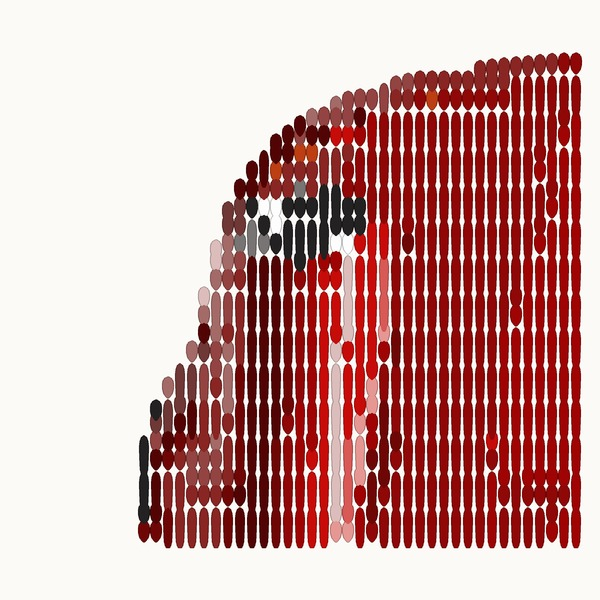
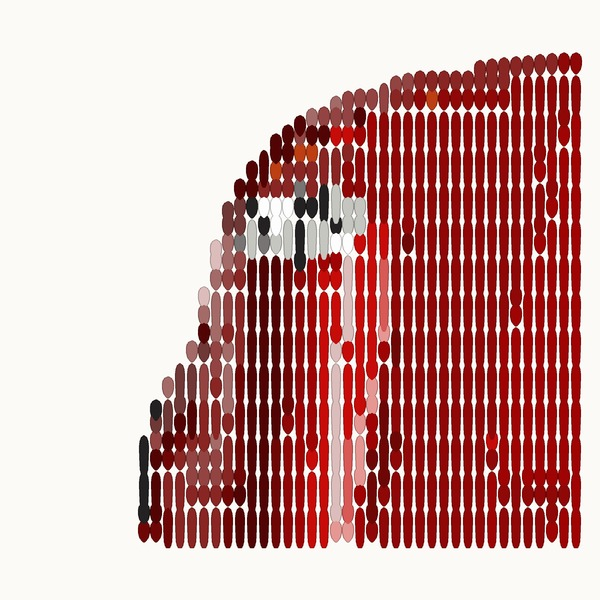
The headlight v.2: his 13 jars a line each, columns 4 mm; a drop's profile clamped
The owner, 2026-11-23, the night: "make v.2 of the headlight … not changing the
colours … we do not need so many shades for the test"; "no, the other way, closer!".
headlight-nib-20-v2: the jars as he set them by 🔄, a line each a layer, columns
4 mm apart. His brush's edits of v.1 and the 4 mm porsche kept. A rounding hair past
a drop's end drew a 38 mm line on a card's picture: the profile clamped. Tested.

Changed region(s): [[0.39, 0.3, 0.63, 0.45]]

diff --git a/app/src/goghplan.js b/app/src/goghplan.js
@@ -37,7 +37,9 @@ import { seqOf, FORMG } from './formgplan.js';
 // to set at all. Let them be preset"): block 6 alone at its place, seeds as stamps (`stamp`, no lift beyond), its `preset` put on the sliders when chosen
 // headlight-nib-20, the headlight for the spatula nib (the owner, 2026-11-23, the night, the stamps a victory: "shall we make a new picture for the headlight
 // test?"; Kuzya's "an enlarged headlight with a bit of the wing on 20 × 20"): for-LAB's crop in 1 and ½, columns 5 mm, every dab a stamp, two layers, preset
-export const GOGH_LIB = ['headlight-nib-20', 'press-stamps-20', 'bear-led-30-3', 'bear-led-30-4', 'porsche-led-20-4', 'porsche-led-20-3', 'porsche-led-20-2', 'press-short-20', 'press-paints-20', 'press-lengths-20', 'orange-bear-20', 'orange-bear'];   // the library: a name here, its json and jpg in app/gogh/; this Mac's own pictures (gogh/local.json, gitignored) in front of it
+// headlight-nib-20-v2 (the owner, 2026-11-23, the night: "make v.2 of the headlight … not changing the colours … we do not need so many shades for the test"; "no,
+// the other way, closer!"): his jars as he set them by 🔄, a line each, 13 jars; columns 4 mm apart
+export const GOGH_LIB = ['headlight-nib-20-v2', 'headlight-nib-20', 'press-stamps-20', 'bear-led-30-3', 'bear-led-30-4', 'porsche-led-20-4', 'porsche-led-20-3', 'porsche-led-20-2', 'press-short-20', 'press-paints-20', 'press-lengths-20', 'orange-bear-20', 'orange-bear'];   // the library: a name here, its json and jpg in app/gogh/; this Mac's own pictures (gogh/local.json, gitignored) in front of it
 // mm, est.: aim, min, max — a dab's length (the owner: "drops of 2 cm"; IMG_3377's measure 13 … 17 mm off an 8 mm mark), the shortest a column's stretch is
 // cut into, the longest; crumb: a stretch of the picture shorter than this left bare; len: what a mm off `aim` costs, squared, in CIELAB ΔE² (a dab's
 // colour against the picture's, summed a mm); stagger: what a dab's end costs `near` mm from one in the column to its left, so the dabs lie as bricks,
@@ -119,7 +121,8 @@ export function dropOf(x, a, b, o = {}) {
   const k = Math.min(1, Math.max(0, -run / 3)), base = o.wide ?? DROP.wide;                  // 0 at RUN 12 and over, 1 at RUN 6: the pill to the seed
   const pill = Math.max(1, (s + ELBOW_J3.early - dropTopOf(o.top)) - (e - ELBOW_J3.late - dropTipOf(o.tip) - 2 * run));
   const top = s + ELBOW_J3.early - dropTopOf(o.top), P = pill + (SEED.len + 2 * Math.min(0, run + 3) - (isSeed(a, b, o) && Number.isFinite(o.seedJ3) ? ELBOW_J3.early - o.seedJ3 : 0) - pill) * k, half = (base + (SEED.wide * base / DROP.wide - base) * k) / 2;   // RUN 4: the seed 2 mm shorter (est.)
-  const at = (pr, f) => { const i = Math.max(1, pr.findIndex(q => q[0] >= f)), [f0, w0] = pr[i - 1], [f1, w1] = pr[i]; return w0 + (w1 - w0) * (f1 > f0 ? (f - f0) / (f1 - f0) : 0); };
+  const at = (pr, f) => { f = Math.min(1, Math.max(0, f)); const i = Math.max(1, pr.findIndex(q => q[0] >= f)),   // f clamped: a hair past 1 by rounding drew a 38 mm wide drop (2026-11-23)
+    [f0, w0] = pr[i - 1], [f1, w1] = pr[i]; return w0 + (w1 - w0) * (f1 > f0 ? (f - f0) / (f1 - f0) : 0); };
   const h = d => half * ((1 - k) * at(DROP.profile, d / P) + k * at(SEED.profile, d / P));
   const n = Math.max(8, Math.ceil(P / 0.25)), ds = [...new Set([...Array.from({ length: n + 1 }, (_, i) => P * i / n), ...DROP.profile.map(q => q[0] * P), ...SEED.profile.map(q => q[0] * P)])].sort((p, q) => p - q);
   const side = ds.map(d => [d, h(d)]);

diff --git a/app/test/goghplan.test.js b/app/test/goghplan.test.js
@@ -414,7 +414,7 @@ test('the headlight for the nib: every dab a stamp, the stamps\' way 4.2 (seedJ3
   const { GOGH_LIB, passesV, dabRunsOf, isSeed } = await import('../src/goghplan.js');
   const { rowsOf, R3, FORMG } = await import('../src/formgplan.js');
   const pic = JSON.parse(fs.readFileSync(path.join(root, 'app/gogh/headlight-nib-20.json'), 'utf8'));
-  assert.equal(GOGH_LIB[0], 'headlight-nib-20');
+  assert.ok(GOGH_LIB.includes('headlight-nib-20'));
   assert.ok(pic.jars.every(j => j.stamp) && pic.dab.seed === 6 && pic.dab.seedJ3 === 2 && pic.preset.run === -1);
   const P = passesV(pic, { gap: pic.preset.gap, run: pic.preset.run }), runs = dabRunsOf(P);
   assert.ok(runs.every(r => r.beyond === false), 'stamps');
@@ -427,4 +427,25 @@ test('the headlight for the nib: every dab a stamp, the stamps\' way 4.2 (seedJ3
   const ways = R.ps.map(g => +Math.hypot(g[0].b.x - g[0].a.x, g[0].b.y - g[0].a.y).toFixed(2));
   assert.ok(ways.filter(w => Math.abs(w - 4.2) < 1e-6).length >= 180, 'the stamps 4.2 mm');
   assert.ok(Math.max(...ways) <= 10.01, `a leg at most 12 − 2 at RUN 10: ${Math.max(...ways)}`);
+});
+
+// a drop's profile read past its end by rounding (2026-11-23, the night: a 38 mm wide line across the headlight's picture): never wider than its own width
+test('a drop never wider than its width — the profile clamped at its ends', async () => {
+  const { dropOf } = await import('../src/goghplan.js');
+  const q = dropOf(45, 113.88, 103, { gap: 0.2, run: 0, seed: 6, seedJ3: 2, wide: 3.5 }), xs = q.map(p => p[0]);
+  assert.ok(Math.max(...xs) - Math.min(...xs) <= 3.5 + 1e-9, `${Math.max(...xs) - Math.min(...xs)}`);
+});
+
+test('the headlight v.2: his 13 jars as he set them by 🔄, a line each a layer, columns 4 mm apart, Jar 6 first in Layer 2', async () => {
+  const fs = await import('node:fs'), path = await import('node:path'), { fileURLToPath } = await import('node:url');
+  const root = path.join(path.dirname(fileURLToPath(import.meta.url)), '..', '..');
+  const { GOGH_LIB, passesV } = await import('../src/goghplan.js');
+  const pic = JSON.parse(fs.readFileSync(path.join(root, 'app/gogh/headlight-nib-20-v2.json'), 'utf8'));
+  assert.equal(GOGH_LIB[0], 'headlight-nib-20-v2');
+  const P = passesV(pic, { gap: 0.2, run: -1 }), name = q => pic.jars.find(j => j.id === q.pencil).name, one = P.filter(q => q.layer === 1).map(name), two = P.filter(q => q.layer === 2).map(name);
+  assert.deepEqual(one, ['Jar 1', 'Jar 5', 'Jar 7', 'Jar 22', 'Jar 23', 'Jar 29', 'Jar 30', 'Jar 31', 'Jar 34', 'Jar 38', 'Jar 43', 'Black'], 'a line each');
+  assert.equal(two[0], 'Jar 6');
+  const xs = [...new Set(pic.jars.flatMap(j => j.cells.flatMap(c => c.legs.map(l => l[0]))))].sort((a, b) => a - b);
+  assert.ok(xs.slice(1).every((x, i) => Math.abs(x - xs[i] - 4) < 1e-6), 'columns 4 mm apart');
+  assert.ok(pic.jars.every(j => j.stamp) && pic.preset.run === -1);
 });

diff --git a/GOGH/README.md b/GOGH/README.md
@@ -138,6 +138,7 @@ shoulder's 0.6 … 0.7° misses: "I have one more suspect: the brush's thin hand
 | `IMG_3493.jpg`, `IMG_3494.jpg` | v.6 on paper (the owner: "hurrah! victory!!!"): block 6 as stamps, short square-ended dabs, the patch two rows apart; beside Press test 5's blocks of bars. |
 | `IMG_3495.jpg`, `IMG_3496.jpg` | v.6 on the canvas's weave, a ruler under it: the nib's stamp ≈ 4.3 × 6 mm (the first lone one 8), a tooth, its head round; the patch 5 mm apart ≈ 0.7 mm of air between, in places touching (est.). Then: "shall we make a new picture for the headlight test?" — **`headlight-nib-20`**: for-LAB's crop x 300 … 760, y 130 … 590 px (the headlight, the indicator over it, the highlight under, the wing's edge), 178 mm on 20 × 20, in 1 and ½ for the nib — columns 5 mm, 12 mm cells, a leg or two stamps, every dab a stamp, the stamps' J3 2 + 2 (`dab.seedJ3`, the way 4.2), Layer 2 the stamps of C13, C14, C2, C1; preset RUN 10, GAP +0.2, BRUSH +0.8; 538 dabs, ≈ 54 min (est.). |
 | (the headlight's jars) | The owner, of its first colours: "random colours … we have this porsche and all my colours are named" — the red classic's 19 jars after its jar canon (Jar 1, 5, 7, 10, 13, 22, 23, 27, 29 … 36, 38, 43, Black and the orange): `headlight-nib-20` made again in them, by his physical jars' hexes (THE JARS' 🔄 list); the picture's orange, darker than his paint and by colour nearer Jar 13, painted by **Jar 6** wherever a third of a part is orange (hue over 45°, `led.py`'s orange jar), first in Layer 2 by its canon — "better rename Indicator to Jar 6, else in the bear it will be Indicator too". 532 dabs, 23 lines. |
+| `Screenshot 2026-11-23 at 11.46.07 PM.png` | The owner's: the headlight on GOGH with his 🔄 (Jar 27 → 29, Jar 32 and 35 → 34, Jar 36 → 38) and his brush (Jar 10, 13 gone): "make v.2 of the headlight and move the drops 1 mm — not changing the colours — there are 10-12 e.g. Jar 34; we do not need so many shades for the test"; "no, the other way, closer!"; "so that they are denser to each other". **`headlight-nib-20-v2`**: those 13 jars, a line each a layer (17 lines), columns 4 mm apart, 670 dabs; else as v.1. And a drop's profile read a hair past its end by rounding drew a 38 mm line across v.1's picture: clamped (`dropOf`). |
 
 ### The gummy bear's head in 1 and ½, two layers (2026-11-23, the evening)
 

diff --git a/CHANGELOG.md b/CHANGELOG.md
@@ -5,6 +5,10 @@ Machine measurements stay in RUBENS: `../Rubens/CALIBRATION.md`.
 
 ## Unreleased
 
+- **The headlight v.2: his 13 jars, a line each, columns 4 mm** (2026-11-23, the night; the owner: "not changing the colours … we do not need so many shades
+  for the test"; "no, the other way, closer!"). `headlight-nib-20-v2` first in GOGH_LIB; his brush's edits of v.1 and the 4 mm porsche kept. A drop's profile
+  clamped at its ends: a rounding hair past it drew a 38 mm wide line on a card's picture (`dropOf`). Tested.
+
 - **The headlight in the owner's named jars** (2026-11-23, the night; the owner: "random colours … all my colours are named"; "better rename Indicator to
   Jar 6"). `headlight-nib-20` in the red classic's 19 jars by their physical hexes; the picture's orange by Jar 6, first in Layer 2 (`led.py`'s orange jar).
 
